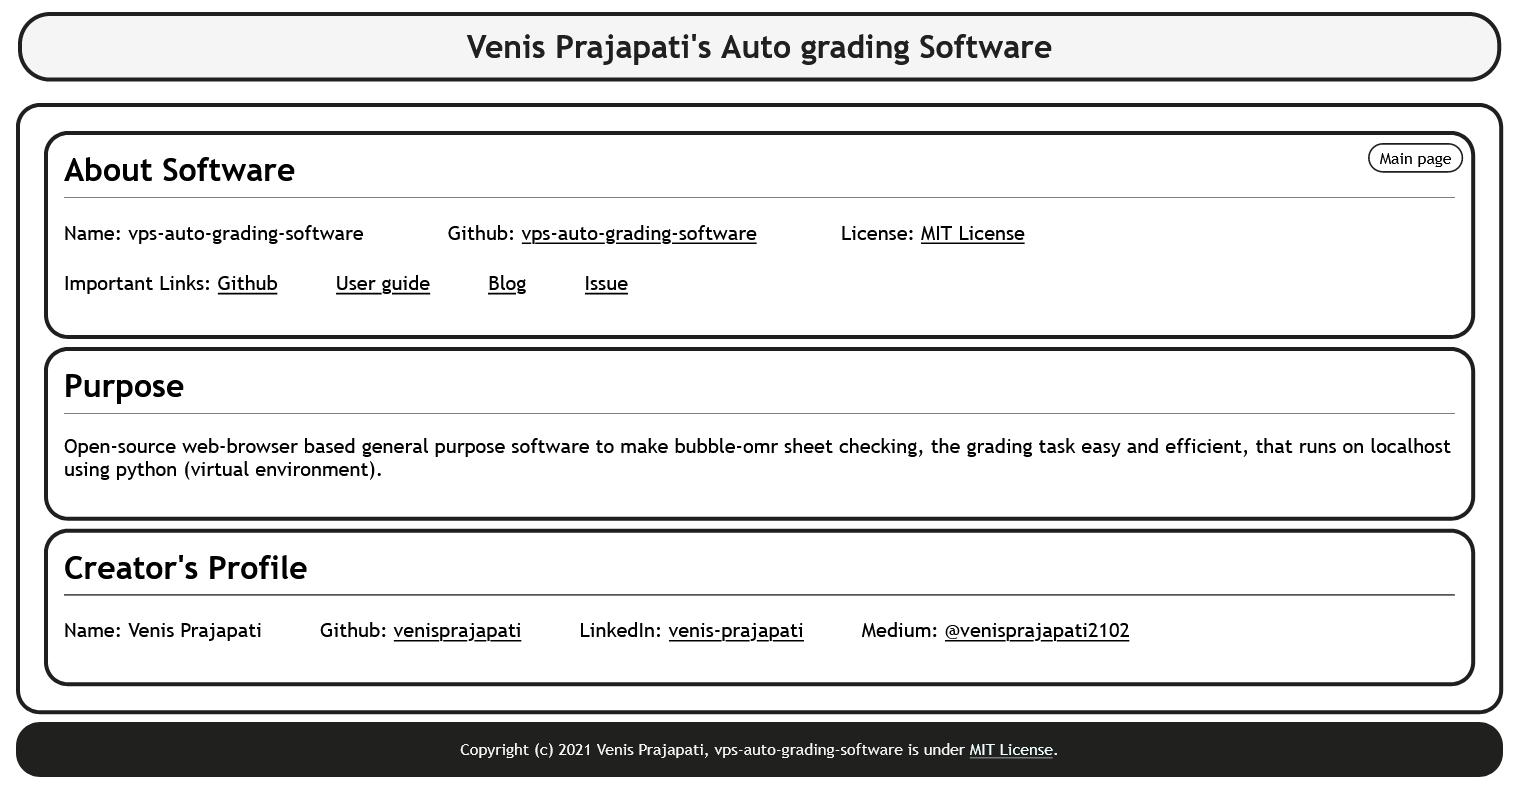
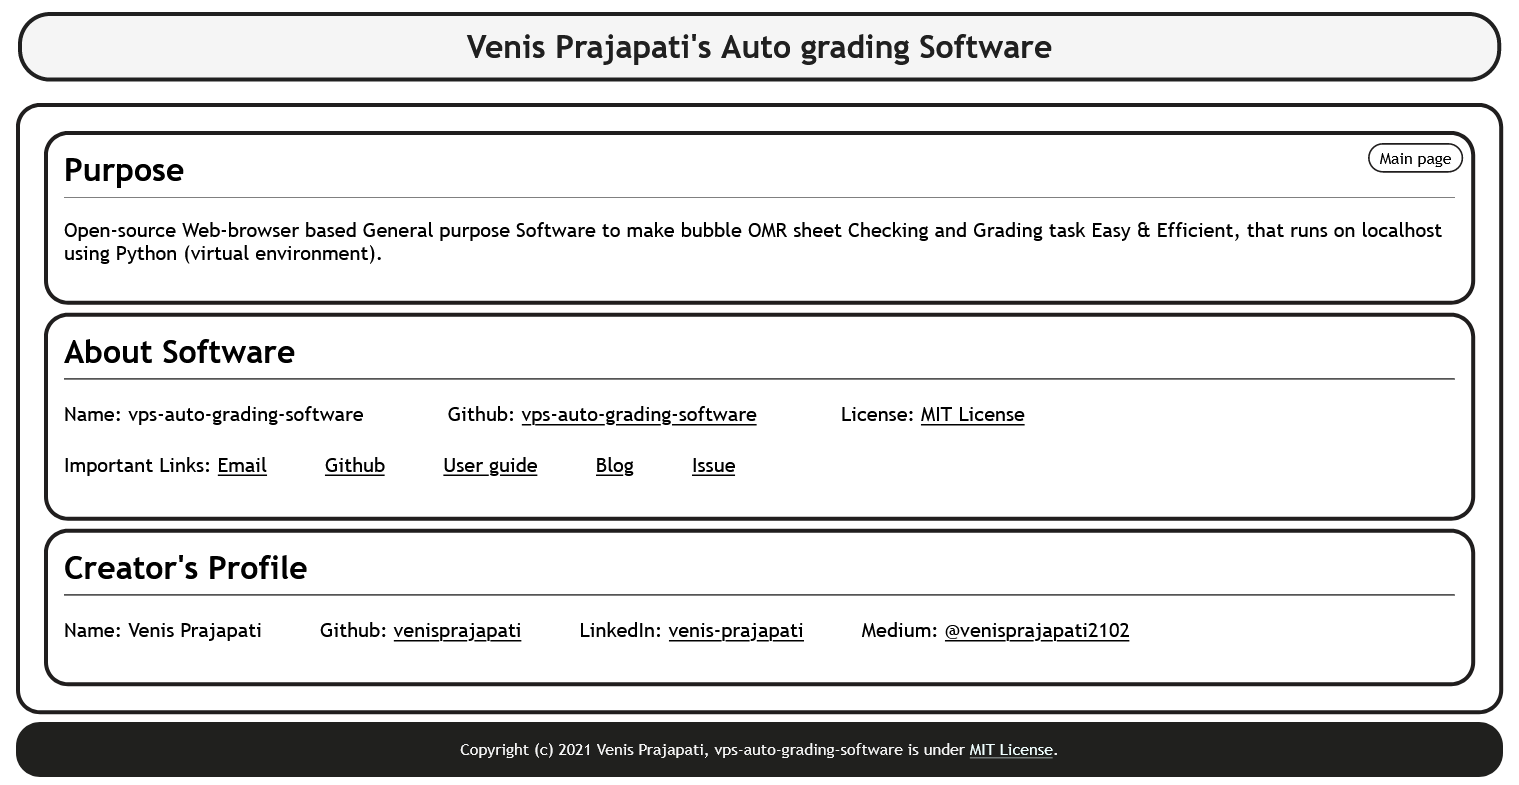
updated README.md, images and html template. # v.2.9

Changed region(s): [[0.0309, 0.2752, 0.9901, 0.6115], [0.0309, 0.1834, 0.1856, 0.2446]]

diff --git a/templates/info.html b/templates/info.html
@@ -22,6 +22,22 @@
 
         <a style="float: right;" class="back-link" href="/">Main page</a>
 
+
+        <div id="frame">
+
+            <main class="main-0">Purpose</main>
+
+            <hr>
+
+            <p class="main-1">
+
+                Open-source Web-browser based General purpose Software to make bubble OMR sheet Checking and Grading task Easy & Efficient, that runs on localhost using Python (virtual environment).
+
+            </p>
+
+        </div>
+
+
         <div id="frame">
 
             <main class="main-0">About Software</main>
@@ -36,7 +52,9 @@
                 License: <a href="https://github.com/venisprajapati/vps-auto-grading-software/blob/main/LICENSE">MIT License</a>
             </p>
             <p class="main-1">
-                Important Links:
+                Important Links: 
+                <a href="mailto: projects.venisprajapati@gmail.com">Email</a>
+                &emsp; &emsp;
                 <a href="https://github.com/venisprajapati/vps-auto-grading-software">Github</a>
                 &emsp; &emsp;
                 <a href="https://github.com/venisprajapati/vps-auto-grading-software/blob/main/User-guide.pdf">User guide</a>
@@ -48,20 +66,6 @@
 
         </div>
 
-        <div id="frame">
-
-            <main class="main-0">Purpose</main>
-
-            <hr>
-
-            <p class="main-1">
-
-                Open-source web-browser based general purpose software to make bubble-omr sheet checking, the grading
-                task easy and efficient, that runs on localhost using python (virtual environment).
-
-            </p>
-
-        </div>
 
         <div id="frame">
             <main class="main-0">Creator's Profile</main>

diff --git a/app.py b/app.py
@@ -4,7 +4,9 @@ author: venisprajapati
 file-name: app.py
 """
 
+
 from __future__ import barry_as_FLUFL
+
 
 __author__ = 'Venis Prajapati'
 __license__ = 'MIT License'
@@ -141,7 +143,7 @@ if __name__ == '__main__':
 
     print("Venis Prajapati's Auto grading Software Started At PORT: http://127.0.0.1:2102/")
 
-    # Timer(1, open_web_browser).start()
-    # serve(app, host="127.0.0.1", port=2102)
+    Timer(1, open_web_browser).start()
+    serve(app, host="127.0.0.1", port=2102)
 
-    app.run(port=2102, debug=True)
+    # app.run(port=2102, debug=True)

diff --git a/README.md b/README.md
@@ -1,5 +1,5 @@
 
-# Venis Prajapati's Auto grading software
+# vps-auto-grading-software
 
 
 <p align="right">
@@ -9,7 +9,7 @@
 
 ## Purpose
 
-- Open-source web-browser based general purpose software to make bubble-omr sheet checking and grading task Easy and Efficient, that runs on localhost using python (virtual environment).
+- Open-source Web-browser based General purpose Software to make bubble OMR sheet Checking and Grading task Easy & Efficient, that runs on localhost using Python (virtual environment).
 
 
 ## Technical Info
@@ -30,17 +30,17 @@
 
 ## Concept
 
-- Scanned images will be processed to find biggest contour in img, then after applying some <b>Threshold</b> algorithm will crop scanned image using <b>Perspective Transform</b>.
+- Scanned images will be processed to find biggest contour in image, after applying some <b>Threshold</b>, algorithm will crop scanned image using <b>Perspective Transform</b>.
 
-- Converted scanned images of OMR sheet to specific width and height with maintain aspect ratio aintain, then use <b>GaussianBlur</b>; make it grayscale using <b>cvtColor</b> with <b>COLOR_BGR2GRAY</b> and apply some threshold to convert the pixels above threshold value to Black.
+- Converted scanned images of OMR sheet with specific width and height with maintain aspect ratio will be given <b>GaussianBlur</b>; make it grayscale using <b>cvtColor</b> with <b>COLOR_BGR2GRAY</b> and apply some threshold to convert the pixels above threshold value to Black.
 
-- There is some specific grid like desing to Scan specific box (i.e. around the bubble) in OMR Sheet so then functions will count the <b>number of Black pixels</b> in specific area (or bubble), if count of black pixels is above specific value then it is filled or marked otherwise not filled or marked by the user (or student).
+- There are specific rectangle gird like design to Scan specific Area, then inside area it will scan virtual grid like area inside OMR rectangle (i.e. around the bubble) in OMR Sheet so then functions will count the <b>number of Black pixels</b> in specific area (or bubble), if count of black pixels is above specific value then it is filled or marked otherwise not filled or marked by the user (or student).
 
 - 190 MCQs Bubble OMR Sheet with perspective-transformed image and mcq area highlighted to check count black pixels in specific square in virtual grid.
 
     ![contour-and-mcq-area](https://github.com/venisprajapati/vps-auto-grading-software/blob/main/screen-shots/contour-and-mcq-area.png?raw=true)
 
-- Returned objects from scan function used to make results with answers given by users and scanned by openpyxl functions, then results are added to students excel file; then omr resonses and results are used to make a document that contains all details, ranking, analysis by marks, analysis by sections, results in details for individual students and also a response ticked by students in OMR Sheet.
+- Returned objects/dictionaries from scan function used to make results with answers given by users and scanned by openpyxl functions, then results are added to students excel file; then omr resonses and results are used to make a document that contains all details, ranking, analysis by marks, analysis by sections, results in details for individual students and also a response ticked by students in OMR Sheet.
 
 - Hence, OMR Sheet is checked and you get result and student-report-cards.
 
@@ -61,7 +61,7 @@
 - Download or Clone Project from <a href="https://github.com/venisprajapati/vps-auto-grading-software">GitHub</a>
 - Unzip :/ the Project
 - Install Python 3.9.6
-- Create virtual environment and activate venv
+- Create virtual environment(venv) <b>env</b> and activate <b>env</b>
 - Run following command to install required packages & libraries
     ```
     pip3 install -r requirements.txt
@@ -76,21 +76,21 @@
 
 ## Test
 
-- For testing, put scanned images in <b>test</b> directory, then run following command
+- For testing, you may put scanned images in <b>test</b> directory, then run following command
     ```
     python test.py
     ```
 - This will show detected contour, perspective transform, draw rectangles in mcq area as shown in above image in Concept section.
-- In line no.-14, you can change to respective omr size i.e. 190, 120, ..,
+- In line no. 14, you can change to respective omr size, as per requirements i.e. 190, 120, ..,
     ```
     total_mcqs = 90
     ```
 - It will also print python dictionary, containing information of all scanned OMRs for test.
 
 
-## Usage
+## Usage / bugs
 
-Follow below important links:
+Follow the important links given below:
 
 - <a href="https://github.com/venisprajapati/vps-auto-grading-software/blob/main/User-guide.pdf">User Guide</a>
 - <a href="https://medium.com/@venisprajapati2102/about-vps-auto-grading-software-5b611ffe6c74">Medium Blog</a>
@@ -100,8 +100,7 @@ Follow below important links:
 
 ## Developer
 
-### Developer contact info:
-Venis Prajapati
+### Venis Prajapati
 * Email: projects.venisprajapati@gmail.com
 * Github: <a href="https://github.com/venisprajapati">github.com/venisprajapati</a>
 * LinkedIn: <a href="https://linkedin.com/in/venis-prajapati-a12b1019b">linkedin.com/in/venis-prajapati-a12b1019b</a>
